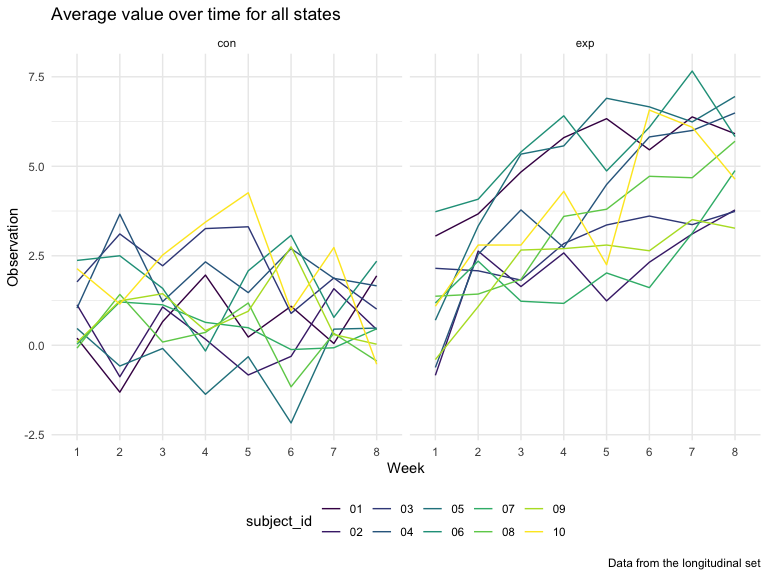
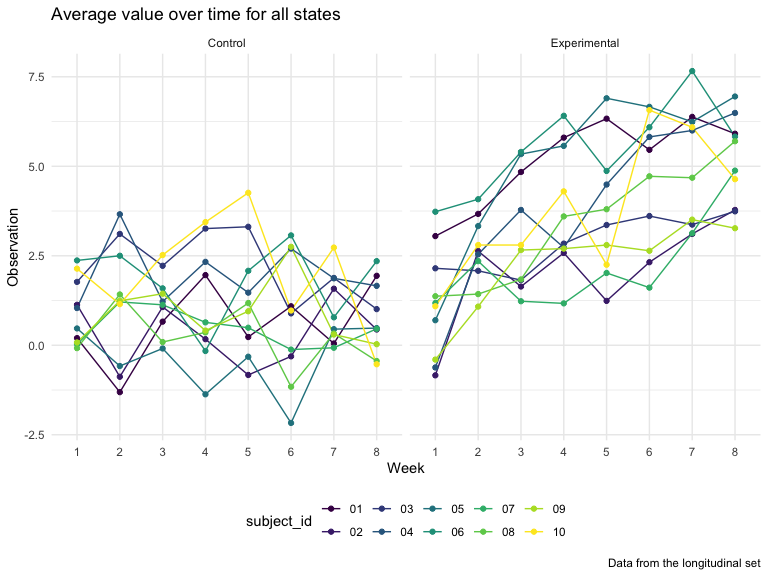
final edits, comments

diff --git a/p8105_hw5_sg3891.md b/p8105_hw5_sg3891.md
@@ -5,11 +5,13 @@ Sandya Ganesh
 
 ## Problem 1
 
-#### Clean data and create function
+Read in and clean the data.
 
 ``` r
-homicide_df =
-  read_csv("./data/homicide-data.csv", na = c("", "Unknown"), show_col_types = FALSE) %>% 
+raw_homicide_df =
+  read_csv("./data/homicide-data.csv", na = c("", "Unknown"), show_col_types = FALSE)
+
+homicide_df = raw_homicide_df %>% 
   mutate(
     city_state = str_c(city, state),
     resolution = case_when(
@@ -20,6 +22,14 @@ homicide_df =
   relocate(city_state) %>% 
   filter(city_state != "TulsaAL")
 ```
+
+The total number of observations in the homicide data set from the
+Washington Post is 52179 observations with 12 variables. Some key
+variables in this data set include city, state, disposition.
+
+In the code chunk below we summarize within cities to obtain the total
+number of homicides and the number of unsolved homicides, and run a prop
+test for a single city (Baltimore).
 
 ``` r
 baltimore_df = 
@@ -47,6 +57,10 @@ baltimore_test %>%
     ##      <dbl>     <dbl>    <dbl>     <int>    <dbl>     <dbl> <chr>     <chr>      
     ## 1    0.646      239. 6.46e-54         1    0.628     0.663 1-sample… two.sided
 
+In the 2 code chunks below we create a function to run prop.test for
+each of the cities in the dataset, and extract both the proportion of
+unsolved homicides and the confidence interval for each.
+
 ``` r
 prop_test_function = function(city_df) {
   
@@ -64,39 +78,7 @@ prop_test_function = function(city_df) {
   
   return(city_test)
 }
-
-prop_test_function(baltimore_df)
 ```
-
-    ## 
-    ##  1-sample proportions test with continuity correction
-    ## 
-    ## data:  city_summary %>% pull(unsolved) out of city_summary %>% pull(n), null probability 0.5
-    ## X-squared = 239.01, df = 1, p-value < 2.2e-16
-    ## alternative hypothesis: true p is not equal to 0.5
-    ## 95 percent confidence interval:
-    ##  0.6275625 0.6631599
-    ## sample estimates:
-    ##         p 
-    ## 0.6455607
-
-``` r
-homicide_df %>% 
-  filter(city_state == "AlbuquerqueNM") %>% 
-  prop_test_function()
-```
-
-    ## 
-    ##  1-sample proportions test with continuity correction
-    ## 
-    ## data:  city_summary %>% pull(unsolved) out of city_summary %>% pull(n), null probability 0.5
-    ## X-squared = 19.114, df = 1, p-value = 1.232e-05
-    ## alternative hypothesis: true p is not equal to 0.5
-    ## 95 percent confidence interval:
-    ##  0.3372604 0.4375766
-    ## sample estimates:
-    ##         p 
-    ## 0.3862434
 
 ``` r
 results_df = 
@@ -111,7 +93,8 @@ results_df =
   select(city_state, estimate, starts_with("conf"))
 ```
 
-#### Plot data to show estimates and confidence intervals
+Finally, we plot the data to show estimates and confidence intervals for
+each city
 
 ``` r
 results_df %>% 
@@ -119,12 +102,21 @@ results_df %>%
   ggplot(aes(x = city_state, y = estimate)) +
   geom_point() +
   geom_errorbar(aes(ymin = conf.low, ymax = conf.high)) +
-  theme(axis.text.x = element_text(angle = 90, vjust = 0.5, hjust=1))
+  theme(axis.text.x = element_text(angle = 90, vjust = 0.5, hjust = 1))
 ```
 
 <img src="p8105_hw5_sg3891_files/figure-gfm/unnamed-chunk-3-1.png" width="90%" />
 
 ## Problem 2
+
+The code chunks for problem 2 utilize a longitudinal study data set with
+an experimental and control arm.
+
+#### Clean and tidy data
+
+In the code chunk below we create a tidy dataframe containing data from
+all participants, including the subject ID, arm, and observations over
+time
 
 ``` r
 long_data = 
@@ -135,7 +127,7 @@ long_data =
   ) %>%
   unnest(subject_data) %>%
   mutate(
-    arm = substr(files,1L,3L),
+    arm = ifelse(str_detect(files, "con"), "Control", "Experimental"),
     subject_id = substr(files,5L,6L)
   ) %>% 
   pivot_longer(
@@ -147,27 +139,39 @@ long_data =
   select(arm, subject_id, week, observation)
 ```
 
+#### Spaghetti Plot
+
+In the code chunk below we make a spaghetti plot that displays
+observations on each subject over time, and comment on differences
+between groups.
+
 ``` r
 long_data %>% 
   group_by(subject_id, week) %>% 
   ggplot(aes(x = week, y = observation, color = subject_id)) + 
   geom_line(aes(group = subject_id)) + 
-  facet_grid(cols=vars(arm)) +
+  geom_point() +
+  facet_grid(. ~arm) +
   labs(
     title = "Average value over time for all states ",
     x = "Week",
     y = "Observation",
+    color = "subject_id",
     caption = "Data from the longitudinal set")
 ```
 
 <img src="p8105_hw5_sg3891_files/figure-gfm/spaghetti-1.png" width="90%" />
+
 Looking at the control group, there is no obvious trend in observations
 across the 8 weeks, with values tending to remain the same on average
 across the study. However in the experimental group, we can see that
 there is a clear upwards trend, with the observation values increasing
-as weeks increase. Therefore, comparing the two arms, we can see that at
-week 8 at the end of study, the observation values for the experimental
-group are much higher than the control group. \#\# Problem 3
+as weeks increase. Therefore, comparing the two arms, we can see that
+while at week 1 the observation values were fairly similar between the
+two arms, at week 8 (by the end of study), the observation values for
+the experimental group are much higher than the control group.
+
+## Problem 3
 
 #### Introduce missing values into iris dataset
 
@@ -181,6 +185,11 @@ iris_with_missing = iris %>%
 
 #### Write and apply function to replace missing values
 
+-   For numeric variables, missing values are replaced by the mean of
+    non-missing values
+-   For character variables, missing values are replaced with
+    “virginica”
+
 ``` r
 fill_missing = function(vector) {
 
@@ -192,89 +201,30 @@ fill_missing = function(vector) {
     vector = replace_na(vector, "virginica")
   }
   
+  if (!is.character(vector) & !is.numeric(vector)) {
+  vector = "Warning: Neither numeric nor character"
+  }
+  
   return(vector)
 
 }
 
-map(iris_with_missing, fill_missing)
+iris_without_missing = map_df(iris_with_missing, fill_missing)
+
+iris_without_missing
 ```
 
-    ## $Sepal.Length
-    ##   [1] 5.10 4.90 4.70 4.60 5.00 5.40 5.82 5.00 4.40 4.90 5.40 4.80 5.82 4.30 5.82
-    ##  [16] 5.70 5.40 5.10 5.70 5.10 5.40 5.10 4.60 5.82 4.80 5.00 5.00 5.20 5.82 4.70
-    ##  [31] 4.80 5.40 5.20 5.50 4.90 5.00 5.50 4.90 4.40 5.10 5.00 4.50 4.40 5.00 5.10
-    ##  [46] 4.80 5.10 4.60 5.30 5.00 7.00 6.40 6.90 5.50 6.50 5.70 6.30 4.90 6.60 5.20
-    ##  [61] 5.00 5.90 6.00 6.10 5.60 6.70 5.60 5.80 6.20 5.60 5.90 5.82 6.30 5.82 6.40
-    ##  [76] 6.60 6.80 6.70 6.00 5.70 5.50 5.82 5.80 6.00 5.40 5.82 6.70 5.82 5.60 5.50
-    ##  [91] 5.50 5.82 5.80 5.00 5.82 5.70 5.70 6.20 5.10 5.70 6.30 5.80 7.10 6.30 6.50
-    ## [106] 7.60 4.90 7.30 6.70 5.82 6.50 5.82 6.80 5.70 5.80 6.40 6.50 7.70 7.70 6.00
-    ## [121] 5.82 5.60 7.70 6.30 6.70 7.20 6.20 6.10 6.40 7.20 7.40 7.90 6.40 5.82 6.10
-    ## [136] 5.82 5.82 6.40 6.00 6.90 6.70 6.90 5.82 6.80 6.70 6.70 6.30 6.50 5.82 5.90
-    ## 
-    ## $Sepal.Width
-    ##   [1] 3.50 3.00 3.20 3.10 3.60 3.90 3.40 3.40 2.90 3.10 3.08 3.40 3.08 3.00 4.00
-    ##  [16] 4.40 3.90 3.50 3.80 3.80 3.40 3.70 3.60 3.30 3.40 3.00 3.40 3.50 3.40 3.20
-    ##  [31] 3.10 3.08 3.08 4.20 3.10 3.20 3.50 3.60 3.00 3.40 3.50 3.08 3.20 3.50 3.80
-    ##  [46] 3.00 3.80 3.20 3.70 3.08 3.08 3.20 3.10 2.30 2.80 2.80 3.30 2.40 2.90 2.70
-    ##  [61] 2.00 3.00 2.20 2.90 2.90 3.10 3.00 3.08 2.20 2.50 3.20 2.80 2.50 2.80 2.90
-    ##  [76] 3.00 2.80 3.08 3.08 2.60 2.40 2.40 2.70 2.70 3.00 3.40 3.10 3.08 3.00 2.50
-    ##  [91] 3.08 3.08 3.08 2.30 2.70 3.00 2.90 2.90 2.50 2.80 3.08 2.70 3.00 2.90 3.08
-    ## [106] 3.00 2.50 2.90 3.08 3.60 3.20 2.70 3.00 3.08 2.80 3.20 3.00 3.80 2.60 2.20
-    ## [121] 3.20 3.08 2.80 2.70 3.30 3.20 2.80 3.00 2.80 3.00 2.80 3.80 2.80 2.80 3.08
-    ## [136] 3.00 3.40 3.10 3.00 3.10 3.10 3.10 2.70 3.20 3.30 3.00 2.50 3.00 3.40 3.00
-    ## 
-    ## $Petal.Length
-    ##   [1] 1.40 1.40 1.30 1.50 1.40 1.70 1.40 1.50 1.40 3.77 1.50 1.60 1.40 3.77 3.77
-    ##  [16] 1.50 1.30 1.40 1.70 1.50 1.70 1.50 1.00 3.77 1.90 3.77 1.60 1.50 1.40 1.60
-    ##  [31] 3.77 1.50 1.50 1.40 3.77 1.20 1.30 1.40 1.30 1.50 1.30 1.30 1.30 1.60 1.90
-    ##  [46] 1.40 1.60 3.77 1.50 1.40 4.70 4.50 4.90 4.00 4.60 4.50 4.70 3.77 4.60 3.90
-    ##  [61] 3.77 4.20 4.00 4.70 3.60 4.40 4.50 4.10 4.50 3.90 4.80 4.00 4.90 3.77 4.30
-    ##  [76] 4.40 4.80 5.00 4.50 3.50 3.80 3.70 3.90 5.10 4.50 4.50 4.70 4.40 3.77 4.00
-    ##  [91] 4.40 4.60 4.00 3.30 4.20 4.20 4.20 4.30 3.00 4.10 3.77 5.10 5.90 5.60 5.80
-    ## [106] 6.60 4.50 6.30 3.77 3.77 5.10 5.30 5.50 5.00 5.10 5.30 3.77 6.70 6.90 5.00
-    ## [121] 5.70 4.90 6.70 4.90 5.70 6.00 4.80 4.90 5.60 5.80 6.10 3.77 3.77 5.10 5.60
-    ## [136] 6.10 5.60 5.50 4.80 5.40 5.60 5.10 5.10 3.77 3.77 5.20 5.00 5.20 5.40 5.10
-    ## 
-    ## $Petal.Width
-    ##   [1] 0.20 0.20 0.20 1.19 0.20 0.40 0.30 0.20 0.20 0.10 0.20 0.20 0.10 0.10 0.20
-    ##  [16] 0.40 0.40 1.19 0.30 1.19 0.20 0.40 0.20 0.50 0.20 0.20 0.40 0.20 0.20 0.20
-    ##  [31] 0.20 0.40 0.10 0.20 0.20 0.20 0.20 0.10 1.19 0.20 0.30 1.19 0.20 0.60 0.40
-    ##  [46] 0.30 0.20 0.20 0.20 0.20 1.40 1.50 1.50 1.30 1.50 1.30 1.60 1.00 1.30 1.40
-    ##  [61] 1.00 1.50 1.19 1.40 1.30 1.40 1.50 1.00 1.50 1.10 1.80 1.30 1.50 1.20 1.30
-    ##  [76] 1.40 1.40 1.19 1.19 1.00 1.10 1.00 1.20 1.60 1.50 1.60 1.19 1.30 1.19 1.19
-    ##  [91] 1.20 1.19 1.19 1.19 1.30 1.20 1.30 1.30 1.19 1.30 2.50 1.90 2.10 1.80 2.20
-    ## [106] 2.10 1.70 1.80 1.80 2.50 2.00 1.90 2.10 2.00 2.40 2.30 1.80 1.19 2.30 1.50
-    ## [121] 1.19 2.00 2.00 1.80 2.10 1.80 1.80 1.80 2.10 1.60 1.19 2.00 2.20 1.50 1.40
-    ## [136] 2.30 1.19 1.19 1.80 2.10 2.40 2.30 1.90 2.30 2.50 2.30 1.90 2.00 2.30 1.80
-    ## 
-    ## $Species
-    ##   [1] "setosa"     "setosa"     "setosa"     "setosa"     "setosa"    
-    ##   [6] "setosa"     "setosa"     "setosa"     "setosa"     "setosa"    
-    ##  [11] "setosa"     "setosa"     "setosa"     "setosa"     "setosa"    
-    ##  [16] "setosa"     "setosa"     "setosa"     "setosa"     "setosa"    
-    ##  [21] "setosa"     "virginica"  "setosa"     "setosa"     "virginica" 
-    ##  [26] "setosa"     "virginica"  "setosa"     "setosa"     "setosa"    
-    ##  [31] "setosa"     "setosa"     "setosa"     "setosa"     "setosa"    
-    ##  [36] "setosa"     "setosa"     "setosa"     "setosa"     "setosa"    
-    ##  [41] "setosa"     "virginica"  "setosa"     "setosa"     "setosa"    
-    ##  [46] "virginica"  "setosa"     "setosa"     "setosa"     "setosa"    
-    ##  [51] "virginica"  "versicolor" "versicolor" "versicolor" "versicolor"
-    ##  [56] "versicolor" "virginica"  "versicolor" "virginica"  "versicolor"
-    ##  [61] "versicolor" "versicolor" "versicolor" "versicolor" "versicolor"
-    ##  [66] "versicolor" "versicolor" "versicolor" "versicolor" "versicolor"
-    ##  [71] "versicolor" "virginica"  "versicolor" "versicolor" "versicolor"
-    ##  [76] "versicolor" "versicolor" "versicolor" "versicolor" "virginica" 
-    ##  [81] "versicolor" "versicolor" "versicolor" "versicolor" "versicolor"
-    ##  [86] "versicolor" "versicolor" "versicolor" "versicolor" "versicolor"
-    ##  [91] "versicolor" "versicolor" "versicolor" "virginica"  "versicolor"
-    ##  [96] "versicolor" "versicolor" "versicolor" "versicolor" "virginica" 
-    ## [101] "virginica"  "virginica"  "virginica"  "virginica"  "virginica" 
-    ## [106] "virginica"  "virginica"  "virginica"  "virginica"  "virginica" 
-    ## [111] "virginica"  "virginica"  "virginica"  "virginica"  "virginica" 
-    ## [116] "virginica"  "virginica"  "virginica"  "virginica"  "virginica" 
-    ## [121] "virginica"  "virginica"  "virginica"  "virginica"  "virginica" 
-    ## [126] "virginica"  "virginica"  "virginica"  "virginica"  "virginica" 
-    ## [131] "virginica"  "virginica"  "virginica"  "virginica"  "virginica" 
-    ## [136] "virginica"  "virginica"  "virginica"  "virginica"  "virginica" 
-    ## [141] "virginica"  "virginica"  "virginica"  "virginica"  "virginica" 
-    ## [146] "virginica"  "virginica"  "virginica"  "virginica"  "virginica"
+    ## # A tibble: 150 × 5
+    ##    Sepal.Length Sepal.Width Petal.Length Petal.Width Species
+    ##           <dbl>       <dbl>        <dbl>       <dbl> <chr>  
+    ##  1         5.1          3.5         1.4         0.2  setosa 
+    ##  2         4.9          3           1.4         0.2  setosa 
+    ##  3         4.7          3.2         1.3         0.2  setosa 
+    ##  4         4.6          3.1         1.5         1.19 setosa 
+    ##  5         5            3.6         1.4         0.2  setosa 
+    ##  6         5.4          3.9         1.7         0.4  setosa 
+    ##  7         5.82         3.4         1.4         0.3  setosa 
+    ##  8         5            3.4         1.5         0.2  setosa 
+    ##  9         4.4          2.9         1.4         0.2  setosa 
+    ## 10         4.9          3.1         3.77        0.1  setosa 
+    ## # … with 140 more rows
